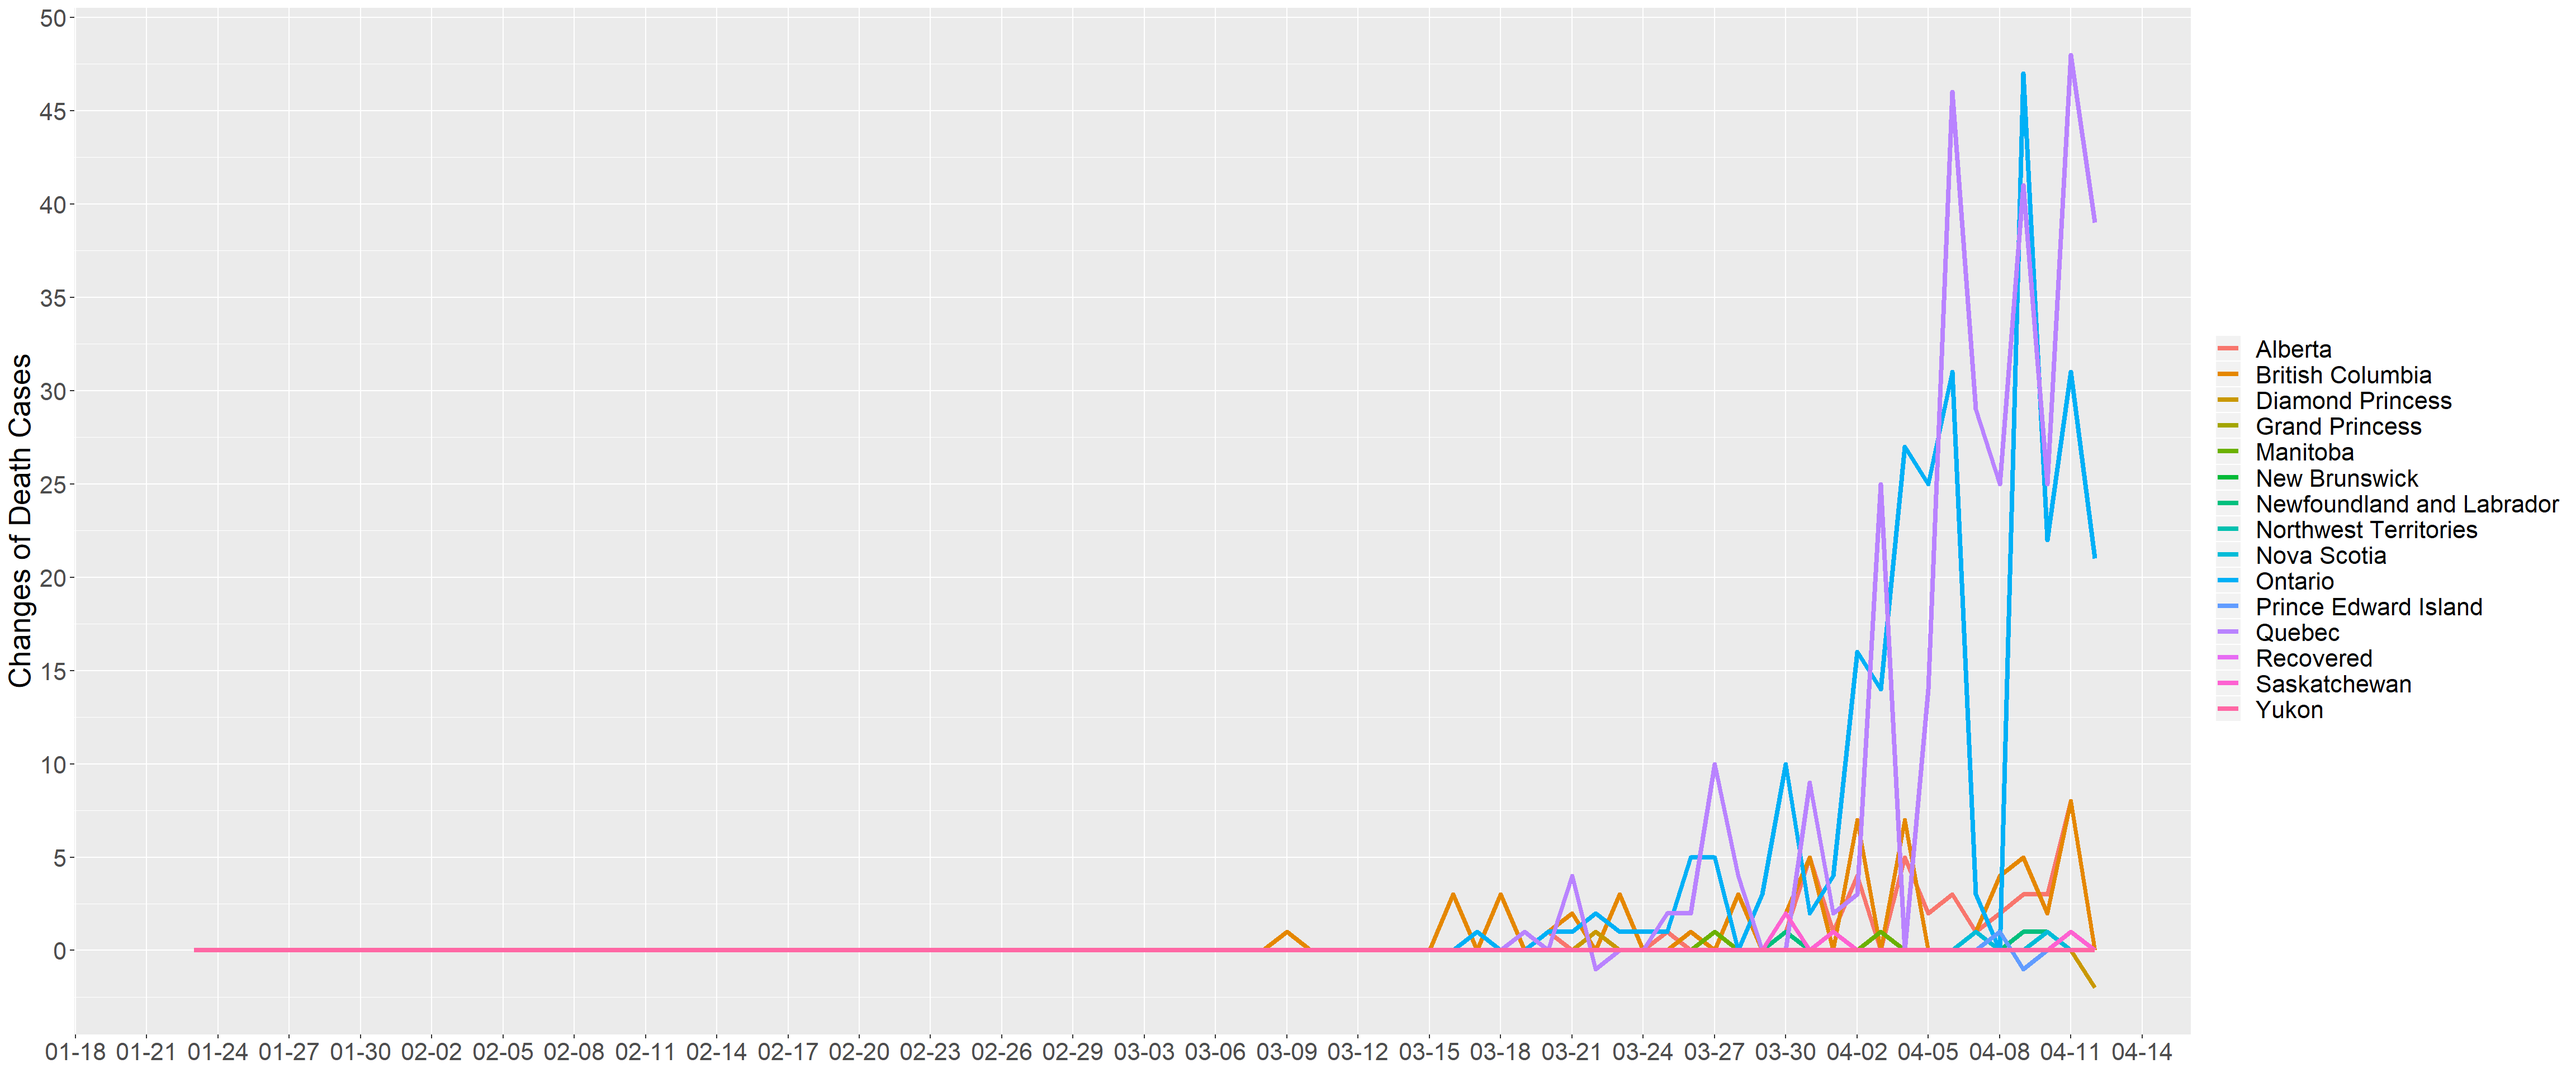
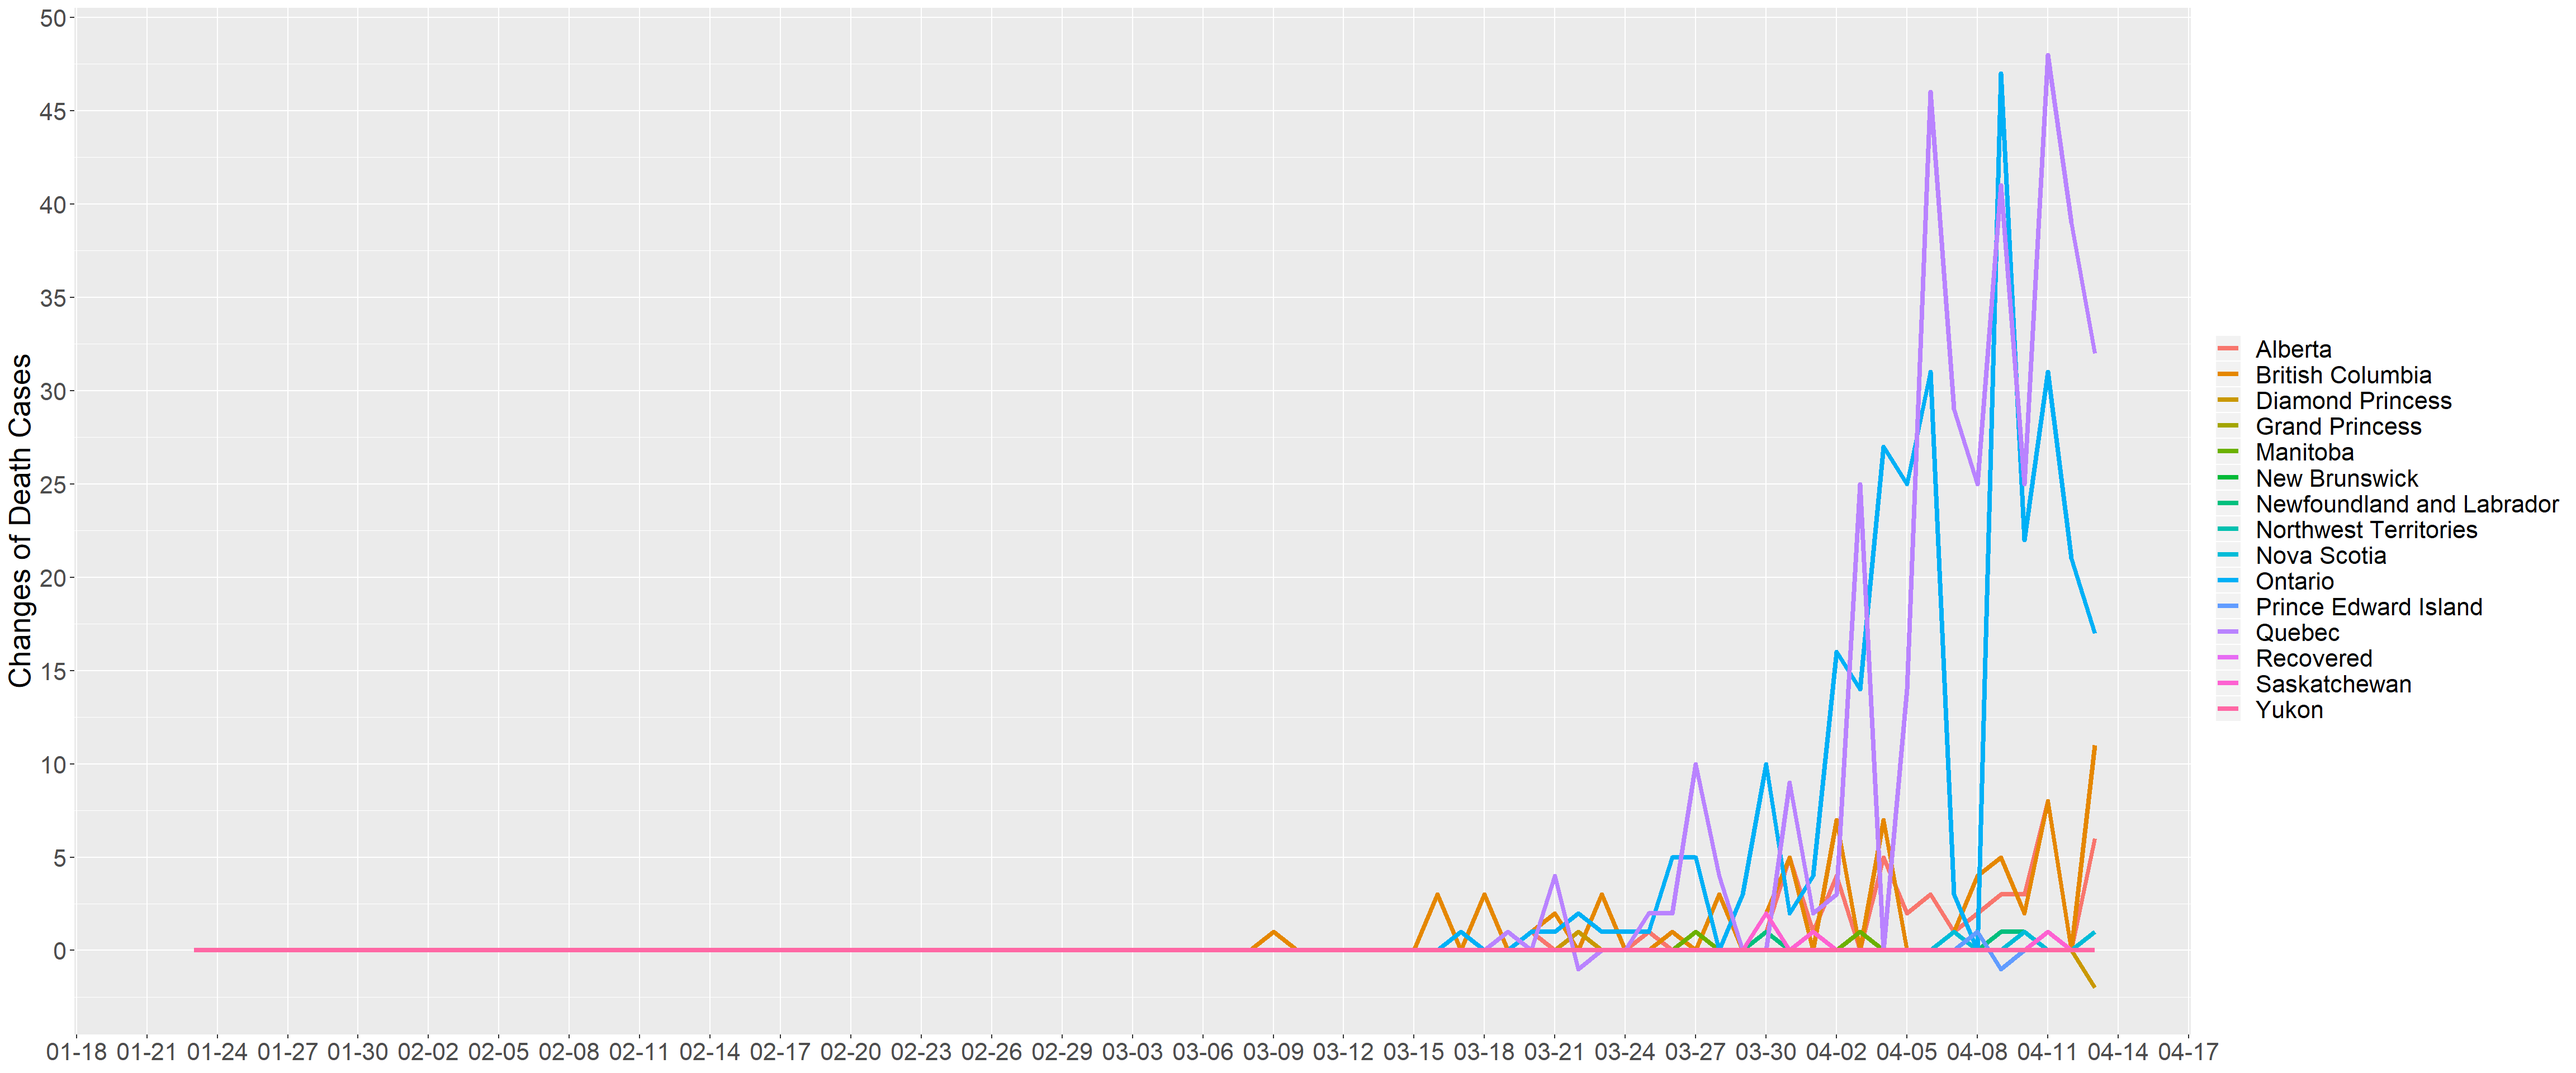
update April 13

Changed region(s): [[0.5312, 0.0625, 0.8125, 0.9062], [0.0312, 0.9688, 0.8438, 1.0]]

diff --git a/COVID-19-EDA/COVID-19-EDA.html b/COVID-19-EDA/COVID-19-EDA.html
@@ -10,7 +10,7 @@
 
 <meta name="author" content="Iris Jiang" />
 
-<meta name="date" content="2020-04-12" />
+<meta name="date" content="2020-04-13" />
 
 <title>COVID-19 Exploratory Data Analysis</title>
 
@@ -83,7 +83,7 @@ $(document).ready(function () {
     
     <div id="postamble" data-toggle="wy-nav-shift" class="status">
               <p class="author"><span class="glyphicon glyphicon-user"></span> Iris Jiang</p>
-                  <p class="date"><span class="glyphicon glyphicon-calendar"></span> April 12, 2020</p>
+                  <p class="date"><span class="glyphicon glyphicon-calendar"></span> April 13, 2020</p>
         </div>
 </div>
 

diff --git a/COVID-19-EDA/custom.css b/COVID-19-EDA/custom.css
@@ -1,3 +1,3 @@
 #content {
-    max-width: 1500px !important; 
+   max-width: 1500px !important;
 }
